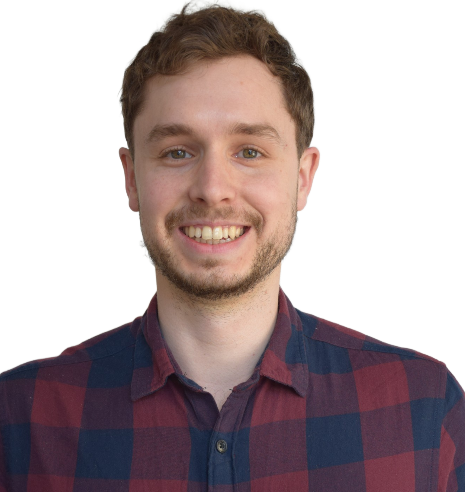
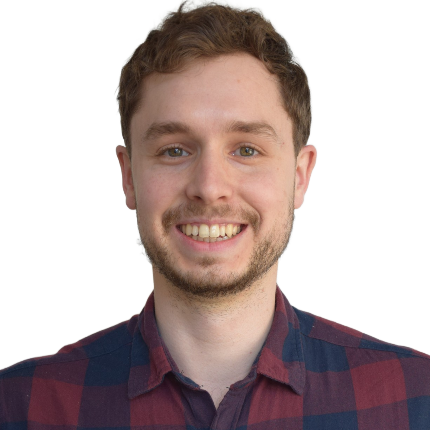
fr version finished

diff --git a/src/app/components/cards/project-card/project-card.component.html b/src/app/components/cards/project-card/project-card.component.html
@@ -1,48 +1,52 @@
 <div
-  class="group/project perspective-1000"
+  class="group/project h-full perspective-1000"
   data-aos="fade-up"
   data-aos-delay="100"
 >
   <div
-    class="relative transform rounded-3xl bg-light-bgSecondary p-4 duration-300 transform-style-preserve-3d group-focus-within/project:rotate-y-180 group-hover/project:rotate-y-180 md:p-7"
+    class="relative h-full transform rounded-3xl bg-light-bgSecondary p-4 duration-300 transform-style-preserve-3d group-focus-within/project:rotate-y-180 lg:p-7 lg:group-hover/project:rotate-y-180"
+    [ngClass]="{ 'rotate-y-180': isFlipped }"
+    (click)="toggleFlip()"
   >
     <!-- Front of the card -->
-    <div class="flex flex-col gap-5 backface-hidden">
+    <div
+      class="flex h-full cursor-pointer flex-col justify-between gap-5 backface-hidden lg:cursor-default"
+    >
       <img
         *ngIf="project.image"
         [src]="project.image.src"
         [alt]="project.image.alt"
         class="rounded-xl md:rounded-2xl"
       />
-      <h3
-        *ngIf="project.title"
-        class="text-light-title font-roboto text-xl font-semibold sm:text-2xl"
-      >
-        {{ project.title }}
-      </h3>
-      <div
-        class="flex flex-wrap gap-3"
-        *ngIf="project.types && project.types.length > 0"
-      >
-        <span
-          *ngFor="let type of project.types"
-          class="rounded-full border-2 border-light-text px-3 py-1 font-roboto text-sm font-semibold text-light-text sm:text-base"
+      <div class="flex flex-col gap-5">
+        <h3
+          *ngIf="project.title"
+          class="font-roboto text-xl font-semibold text-light-title sm:text-2xl"
         >
-          {{ type }}
-        </span>
+          {{ project.title }}
+        </h3>
+        <div
+          class="flex flex-wrap gap-3"
+          *ngIf="project.types && project.types.length > 0"
+        >
+          <span
+            *ngFor="let type of project.types"
+            class="rounded-full border-2 border-light-text px-3 py-1 font-roboto text-sm font-semibold text-light-text sm:text-base"
+          >
+            {{ type }}
+          </span>
+        </div>
       </div>
     </div>
     <!-- Back of the card -->
     <div
-      class="absolute inset-8 flex rotate-y-180 flex-col justify-between gap-5 backface-hidden"
+      class="absolute inset-8 flex rotate-y-180 flex-col justify-between gap-5 overflow-y-auto backface-hidden"
       *ngIf="project.excerpt"
     >
-      <p
-        *ngIf="project.excerpt"
+      <div
         class="font-nunito text-base text-light-text sm:text-lg"
-      >
-        {{ project.excerpt }}
-      </p>
+        [innerHTML]="project.excerpt"
+      ></div>
       <a
         *ngIf="project.button"
         [href]="project.button.link"
@@ -50,7 +54,7 @@
         target="_blank"
         >{{ project.button.title }}
         <i
-          class="icon-arrow-up-right transform text-xs transition-transform duration-300 group-hover/projectlink:-translate-y-1 group-hover/projectlink:translate-x-1 group-focus/projectlink:-translate-y-1 group-focus/projectlink:translate-x-1"
+          class="icon-arrow-up-right mr-1 transform text-xs transition-transform duration-300 group-hover/projectlink:-translate-y-1 group-hover/projectlink:translate-x-1 group-focus/projectlink:-translate-y-1 group-focus/projectlink:translate-x-1"
         ></i
       ></a>
     </div>

diff --git a/src/app/components/about/about.component.html b/src/app/components/about/about.component.html
@@ -4,7 +4,7 @@
       <div data-aos="fade-up" data-aos-delay="100">
         <h2
           id="#about"
-          class="text-light-title mb-8 font-roboto text-2xl uppercase tracking-wide sm:text-3xl"
+          class="mb-8 font-roboto text-2xl uppercase tracking-wide text-light-title sm:text-3xl"
         >
           <i class="icon-forward mr-4 text-xl"></i>
           {{ 'components.about.title' | translate }}
@@ -25,24 +25,22 @@
           class="mb-8 font-nunito text-light-text sm:text-lg"
           [innerHTML]="'components.about.intro' | translate"
         ></p>
-        <div>
-          <snip-main-button
-            [buttonText]="
-              'components.about.resume-button.button-text' | translate
-            "
-            [buttonLink]="
-              'components.about.resume-button.button-link' | translate
-            "
-            [downloadFile]="true"
-          ></snip-main-button>
-        </div>
+        <!-- <snip-main-button
+          [buttonText]="
+            'components.about.resume-button.button-text' | translate
+          "
+          [buttonLink]="
+            'components.about.resume-button.button-link' | translate
+          "
+          [downloadFile]="true"
+        ></snip-main-button> -->
       </div>
       <!-- Desktop profile picture -->
       <div class="hidden lg:flex" data-aos="fade-up" data-aos-delay="100">
         <div class="m-auto overflow-hidden rounded-full bg-light-secondary">
           <img
             class="contains mx-auto max-h-96"
-            src="\assets\images\cut-character3.png"
+            src="\assets\images\cut-character.png"
             [alt]="'components.about.profile-image.alt' | translate"
           />
         </div>

diff --git a/src/app/components/cards/project-card/project-card.component.ts b/src/app/components/cards/project-card/project-card.component.ts
@@ -1,10 +1,10 @@
-import { Component, Input } from '@angular/core';
+import { Component, HostListener, Input, OnInit } from '@angular/core';
 
 @Component({
   selector: 'lib-project-card',
   templateUrl: './project-card.component.html',
 })
-export class ProjectCardComponent {
+export class ProjectCardComponent implements OnInit {
   @Input() project: {
     title?: string;
     button?: {
@@ -19,4 +19,25 @@ export class ProjectCardComponent {
       alt?: string;
     };
   } = {};
+  isFlipped = false;
+  isMobileOrTablet = false;
+
+  ngOnInit() {
+    this.checkScreenSize();
+  }
+
+  @HostListener('window:resize', [])
+  onResize() {
+    this.checkScreenSize();
+  }
+
+  private checkScreenSize() {
+    this.isMobileOrTablet = window.innerWidth < 1024;
+  }
+
+  toggleFlip() {
+    if (this.isMobileOrTablet) {
+      this.isFlipped = !this.isFlipped;
+    }
+  }
 }

diff --git a/src/app/components/header/header.component.html b/src/app/components/header/header.component.html
@@ -21,12 +21,16 @@
             class="font-roboto text-base font-bold text-light-text transition-all duration-300 hover:cursor-pointer hover:opacity-75 md:text-lg xl:text-xl"
             *ngIf="currentLang === 'fr'"
             (click)="changeLanguage('en')"
+            (keydown.enter)="changeLanguage('en')"
+            tabindex="0"
             >EN</a
           >
           <a
             class="font-roboto text-base font-bold text-light-text transition-all duration-300 hover:cursor-pointer hover:opacity-75 md:text-lg xl:text-xl"
             *ngIf="currentLang === 'en'"
             (click)="changeLanguage('fr')"
+            (keydown.enter)="changeLanguage('fr')"
+            tabindex="0"
             >FR</a
           >
         </div>

diff --git a/src/app/components/panel/panel.component.html b/src/app/components/panel/panel.component.html
@@ -71,12 +71,16 @@
             class="font-roboto text-base font-bold text-light-text transition-all duration-300 hover:cursor-pointer hover:opacity-75 md:text-lg xl:text-xl"
             *ngIf="currentLang === 'fr'"
             (click)="changeLanguage('en')"
+            (keydown.enter)="changeLanguage('en')"
+            tabindex="0"
             >EN</a
           >
           <a
             class="font-roboto text-base font-bold text-light-text transition-all duration-300 hover:cursor-pointer hover:opacity-75 md:text-lg xl:text-xl"
             *ngIf="currentLang === 'en'"
             (click)="changeLanguage('fr')"
+            (keydown.enter)="changeLanguage('fr')"
+            tabindex="0"
             >FR</a
           >
         </div>

diff --git a/src/app/components/header/header.component.ts b/src/app/components/header/header.component.ts
@@ -50,9 +50,9 @@ export class HeaderComponent implements AfterViewInit {
     this.headerHeight = this.headerHtml.nativeElement.offsetHeight;
   }
 
-  // Save selected language to local storage
+  // Save selected language to local storage and reload page
   changeLanguage(lang: string): void {
-    this.translateService.use(lang);
     localStorage.setItem('lang', lang);
+    window.location.reload();
   }
 }

diff --git a/src/app/components/panel/panel.component.ts b/src/app/components/panel/panel.component.ts
@@ -51,7 +51,7 @@ export class PanelComponent {
 
   // Save selected language to local storage
   changeLanguage(lang: string): void {
-    this.translateService.use(lang);
     localStorage.setItem('lang', lang);
+    window.location.reload();
   }
 }
